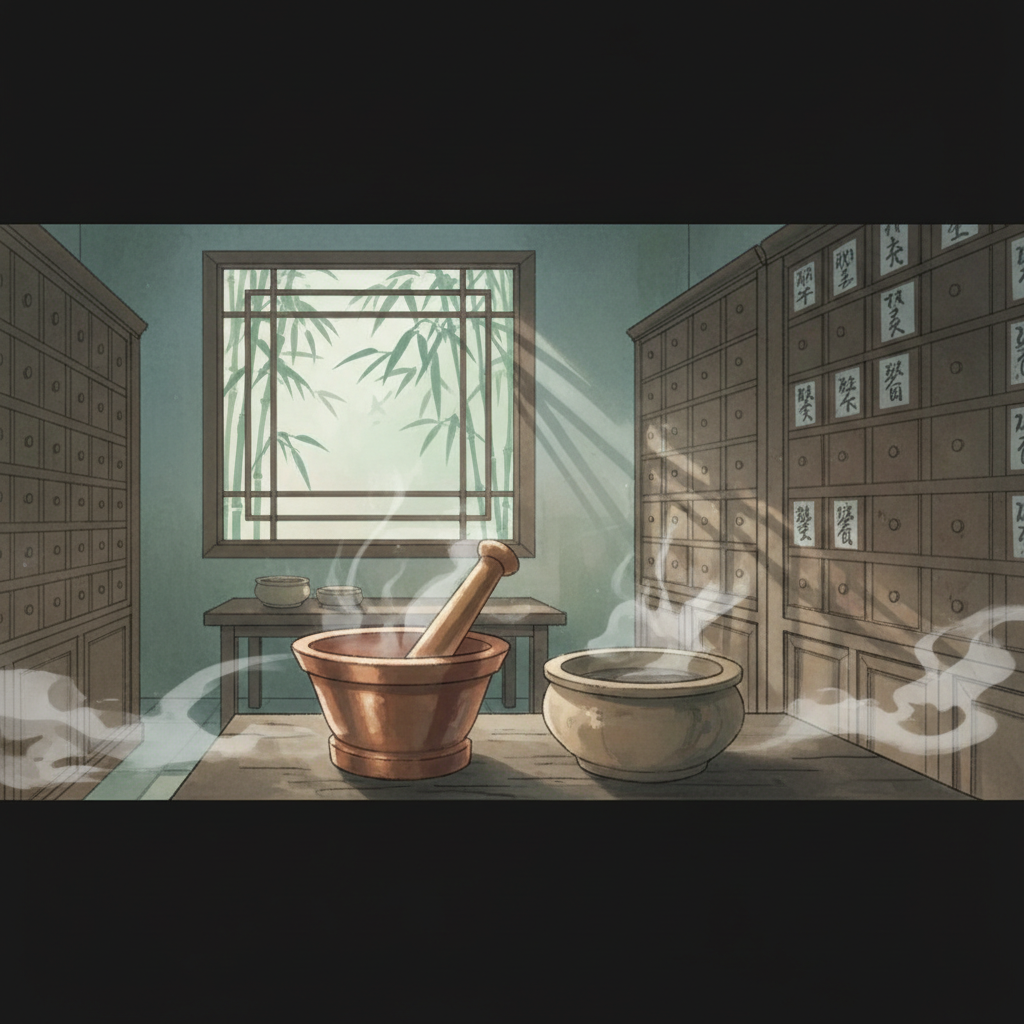
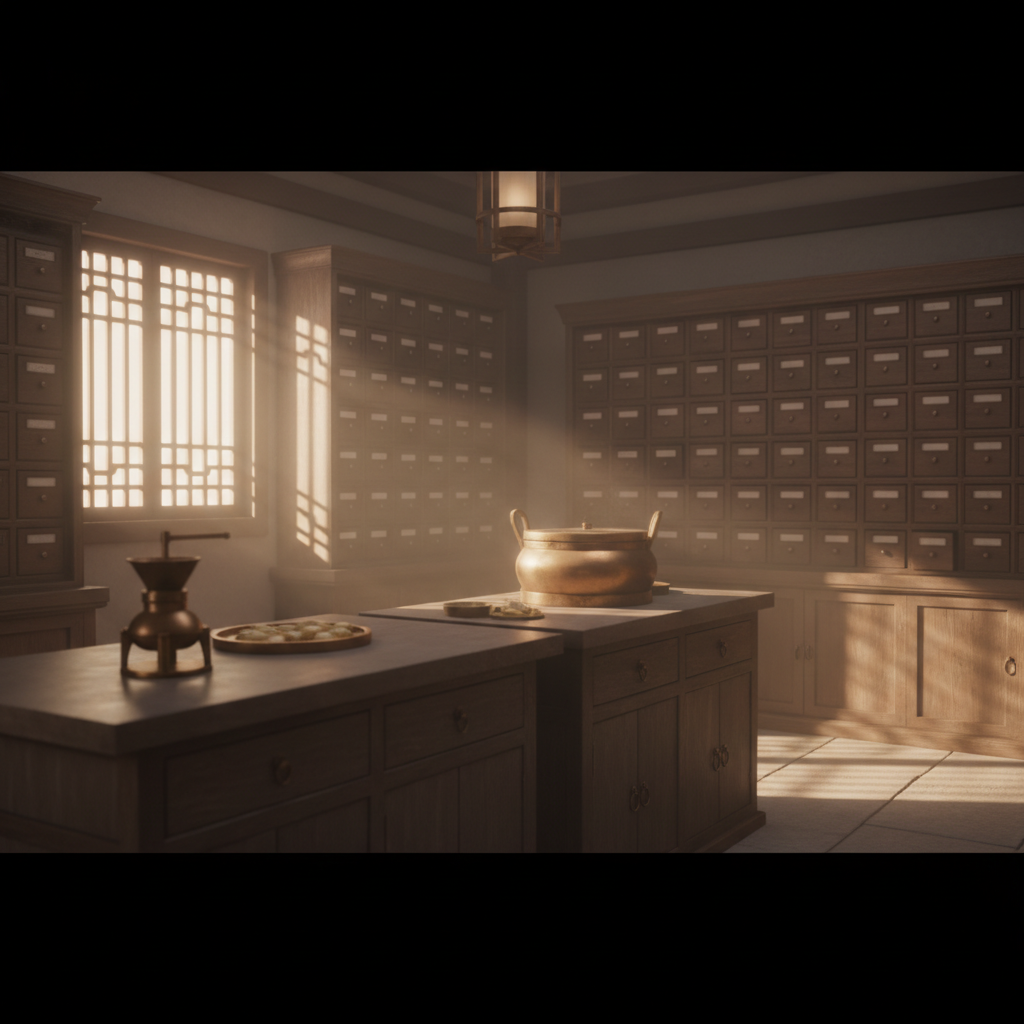
场景图改回克制尺寸(完整显示不裁剪,max170px); 人物立绘按动画剧版风格重绘(剧版特征锚定:韩立半扎发髻橄榄绿道袍等); 实时配图风格同步; ?v=14

diff --git a/scripts/genart.js b/scripts/genart.js
@@ -23,21 +23,22 @@ const OUT = path.join(__dirname, "..", "assets");
 const TMP = path.join(__dirname, "..", "test");
 if (!fs.existsSync(OUT)) fs.mkdirSync(OUT, { recursive: true });
 
-// 统一画风前缀：忠于《凡人修仙传》动漫——国风水墨淡彩、写意仙侠、含蓄克制
-const STYLE_PORTRAIT = "中国风水墨淡彩人物立绘，写意仙侠动画风格，半身像，柔和留白背景，工笔淡彩，气质含蓄克制，竖构图，无文字无水印";
-const STYLE_SCENE = "中国风水墨淡彩场景插画，写意仙侠动画风格，意境悠远，淡雅设色，横构图，无人物特写无文字无水印";
+// 统一画风：忠于《凡人修仙传》动画剧版——3D 渲染电影质感、写实国风仙侠、
+// 柔和暖调布光、半身像、神情含蓄克制。所有人物共享同一画风，保证整体协调、特征鲜明。
+const STYLE_PORTRAIT = "《凡人修仙传》动画剧版同款画风，3D渲染电影级质感，写实国风仙侠人物半身像，精细面部与发丝，柔和暖调布光，景深虚化背景，气质沉静克制，竖构图，单人，无文字无水印无logo";
+const STYLE_SCENE = "《凡人修仙传》动画剧版同款画风，3D渲染电影级场景，写实国风仙侠，光影氛围考究，意境悠远，横构图，无人物特写无文字无水印";
 
 const DEFS = {
-  // —— 人物立绘 ——
-  hanli:    { kind: "portrait", prompt: "一位清瘦沉静的少年修士，约十四岁，青灰布道袍，眉目平凡而眼神坚毅内敛，神情不动声色" },
-  modafu:   { kind: "portrait", prompt: "一位衰朽阴郁的老大夫，灰白须发，浑浊眼底偶现精光，深色旧袍，背后隐约药柜药香，气息神秘莫测" },
-  lifeiyu:  { kind: "portrait", prompt: "一位爽朗英气的少年武者，约十五岁，劲装束袖，体格健朗，眉宇间一股豪爽不羁之气，似在大笑" },
-  zhangtie: { kind: "portrait", prompt: "一位憨厚壮实的少年，粗布短打，体格结实，面相老实仗义，带着乡间少年的朴拙" },
+  // —— 人物立绘（剧版特征锚定，确保识别度）——
+  hanli:    { kind: "portrait", prompt: "少年韩立，约十五岁，乌黑长发束成半扎发髻、余发垂肩，眉目清秀沉静，眼神坚毅内敛，身着橄榄黄绿色交领道袍、肩部有菱格暗纹，神情不动声色" },
+  modafu:   { kind: "portrait", prompt: "墨大夫，一位枯瘦衰朽的老者，灰白须发稀疏，面色蜡黄、眼窝深陷，浑浊眼底偶现一丝阴冷精光，身着深褐色旧药袍，气息神秘莫测，背景隐约药柜" },
+  lifeiyu:  { kind: "portrait", prompt: "少年厉飞雨，约十六岁，浓眉大眼、英气逼人，束发利落，身着利落劲装、束袖，体格健朗，咧嘴而笑、豪爽不羁" },
+  zhangtie: { kind: "portrait", prompt: "少年张铁，约十六岁，国字脸、浓眉，体格壮实魁梧，短发利落，身着粗布短打劲装，面相憨厚老实仗义，乡间少年的朴拙" },
   // —— 场景 ——
-  yaolu:    { kind: "scene", prompt: "一间古朴清幽的中药药庐，木质药柜林立，铜药碾与丹炉，窗外竹影，药香氤氲" },
-  houshan:  { kind: "scene", prompt: "云雾缭绕的仙门后山，奇峰幽谷，灵草丛生，古木森森，深处隐有凶险气息" },
-  town:     { kind: "scene", prompt: "山脚下的凡俗古镇，青瓦土墙，市井街巷，行人商贩，远处仙山隐现" },
-  wuting:   { kind: "scene", prompt: "仙门演武厅，宽阔的木地演武场，兵器架列于两侧，庄严肃穆" },
+  yaolu:    { kind: "scene", prompt: "古朴清幽的中药药庐内景，木质药柜林立、抽屉密布，铜药碾与丹炉，窗棂透入暖光，药香氤氲" },
+  houshan:  { kind: "scene", prompt: "云雾缭绕的仙门后山，奇峰幽谷，灵草丛生，古木森森，溪涧幽深，深处隐有凶险气息" },
+  town:     { kind: "scene", prompt: "山脚下的凡俗古镇街景，青瓦土墙，市井街巷，行人商贩，远处仙山隐现于云雾" },
+  wuting:   { kind: "scene", prompt: "仙门演武厅内景，宽阔的木地演武场，两侧兵器架林立，梁柱庄严肃穆，天光斜入" },
 };
 
 function genOne(id, def) {

diff --git a/index.html b/index.html
@@ -4,7 +4,7 @@
   <meta charset="UTF-8" />
   <meta name="viewport" content="width=device-width, initial-scale=1.0" />
   <title>凡人修仙传 · 修仙模拟 MVP</title>
-  <link rel="stylesheet" href="css/style.css?v=13" />
+  <link rel="stylesheet" href="css/style.css?v=14" />
 </head>
 <body>
   <div id="app">
@@ -191,24 +191,24 @@
     <div id="toast" class="toast" hidden></div>
   </div>
 
-  <script src="js/data.js?v=13"></script>
-  <script src="js/state.js?v=13"></script>
-  <script src="js/chapters.js?v=13"></script>
-  <script src="js/balance.js?v=13"></script>
-  <script src="js/world.js?v=13"></script>
-  <script src="js/npcsim.js?v=13"></script>
-  <script src="js/interactions.js?v=13"></script>
-  <script src="js/combat.js?v=13"></script>
-  <script src="js/explore.js?v=13"></script>
-  <script src="js/loadout.js?v=13"></script>
-  <script src="js/dialogue.js?v=13"></script>
-  <script src="js/llm.js?v=13"></script>
-  <script src="js/art.js?v=13"></script>
-  <script src="js/fortunes.js?v=13"></script>
-  <script src="js/quests.js?v=13"></script>
-  <script src="js/story.js?v=13"></script>
-  <script src="js/engine.js?v=13"></script>
-  <script src="js/ui.js?v=13"></script>
-  <script src="js/main.js?v=13"></script>
+  <script src="js/data.js?v=14"></script>
+  <script src="js/state.js?v=14"></script>
+  <script src="js/chapters.js?v=14"></script>
+  <script src="js/balance.js?v=14"></script>
+  <script src="js/world.js?v=14"></script>
+  <script src="js/npcsim.js?v=14"></script>
+  <script src="js/interactions.js?v=14"></script>
+  <script src="js/combat.js?v=14"></script>
+  <script src="js/explore.js?v=14"></script>
+  <script src="js/loadout.js?v=14"></script>
+  <script src="js/dialogue.js?v=14"></script>
+  <script src="js/llm.js?v=14"></script>
+  <script src="js/art.js?v=14"></script>
+  <script src="js/fortunes.js?v=14"></script>
+  <script src="js/quests.js?v=14"></script>
+  <script src="js/story.js?v=14"></script>
+  <script src="js/engine.js?v=14"></script>
+  <script src="js/ui.js?v=14"></script>
+  <script src="js/main.js?v=14"></script>
 </body>
 </html>

diff --git a/js/art.js b/js/art.js
@@ -99,8 +99,8 @@
     },
 
     STYLE: {
-      portrait: "中国风水墨淡彩人物立绘，写意仙侠动画风格，半身像，柔和留白背景，工笔淡彩，气质含蓄克制，竖构图，无文字无水印",
-      scene: "中国风水墨淡彩场景插画，写意仙侠动画风格，意境悠远，淡雅设色，横构图，无人物特写无文字无水印",
+      portrait: "《凡人修仙传》动画剧版同款画风，3D渲染电影级质感，写实国风仙侠人物半身像，精细面部与发丝，柔和暖调布光，景深虚化背景，气质沉静克制，竖构图，单人，无文字无水印无logo",
+      scene: "《凡人修仙传》动画剧版同款画风，3D渲染电影级场景，写实国风仙侠，光影氛围考究，意境悠远，横构图，无人物特写无文字无水印",
     },
 
     _generate(spec) {

diff --git a/css/style.css b/css/style.css
@@ -1006,8 +1006,8 @@ html, body {
   animation: sceneFade .5s ease;
 }
 .loc-scene img {
-  width: 100%; max-height: 200px; object-fit: cover; display: block;
-  filter: saturate(.95);
+  width: 100%; max-height: 170px; height: auto; object-fit: contain; display: block;
+  background: #0c0a08; filter: saturate(.95);
 }
 .loc-scene::after {
   content: ""; position: absolute; inset: 0;
@@ -1113,5 +1113,4 @@ html, body {
   .story-dialog { padding: 16px 18px 28px; }
 }
 
-/* 场景配图改为完整显示（不裁剪），高度自适应 */
-.loc-scene img { max-height: none; height: auto; }
+/* 场景配图：完整显示（不裁剪），尺寸克制，详见上方 .loc-scene img */
